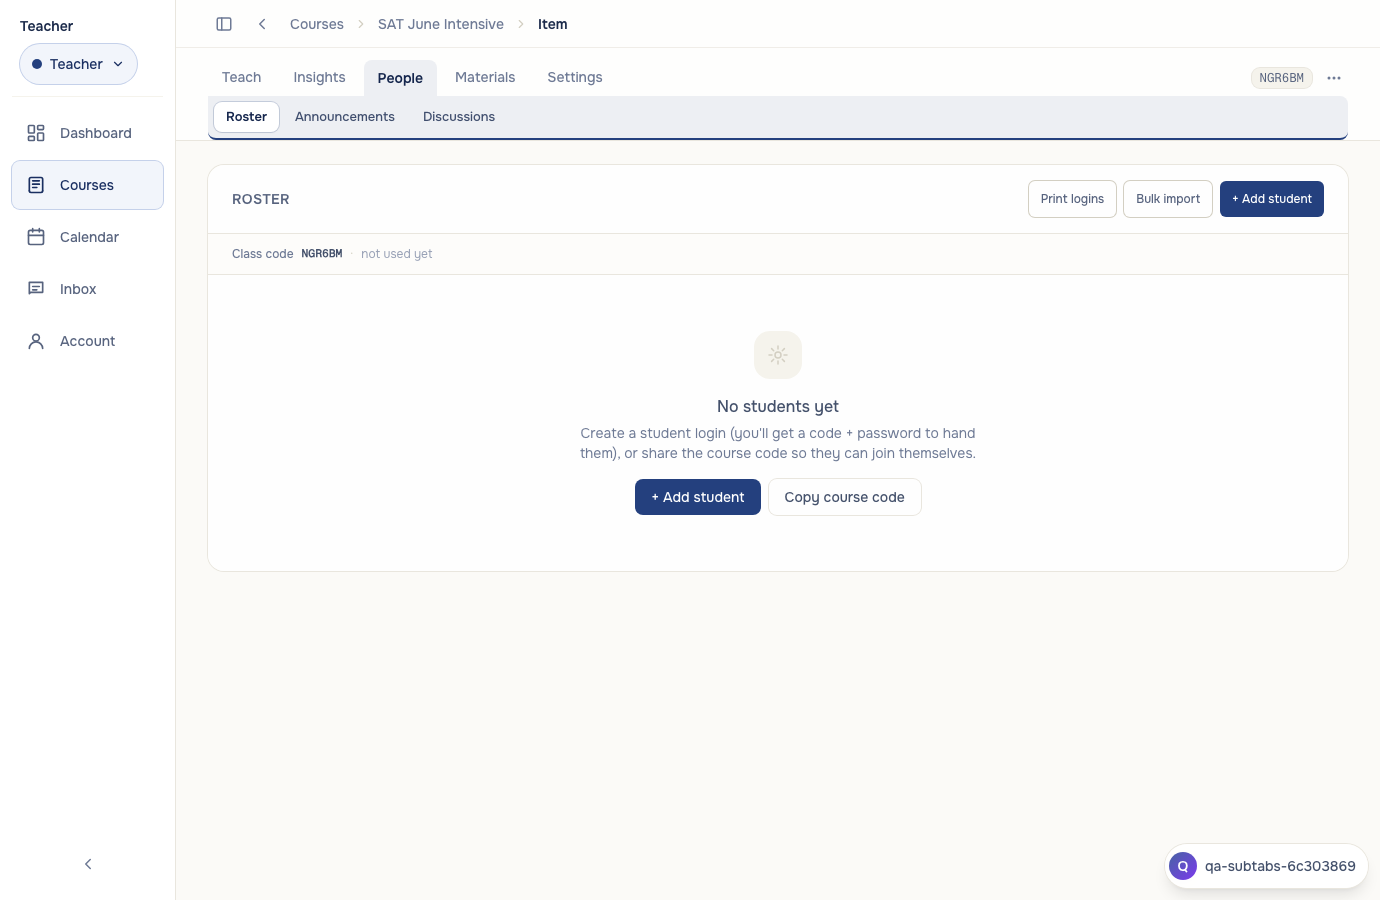
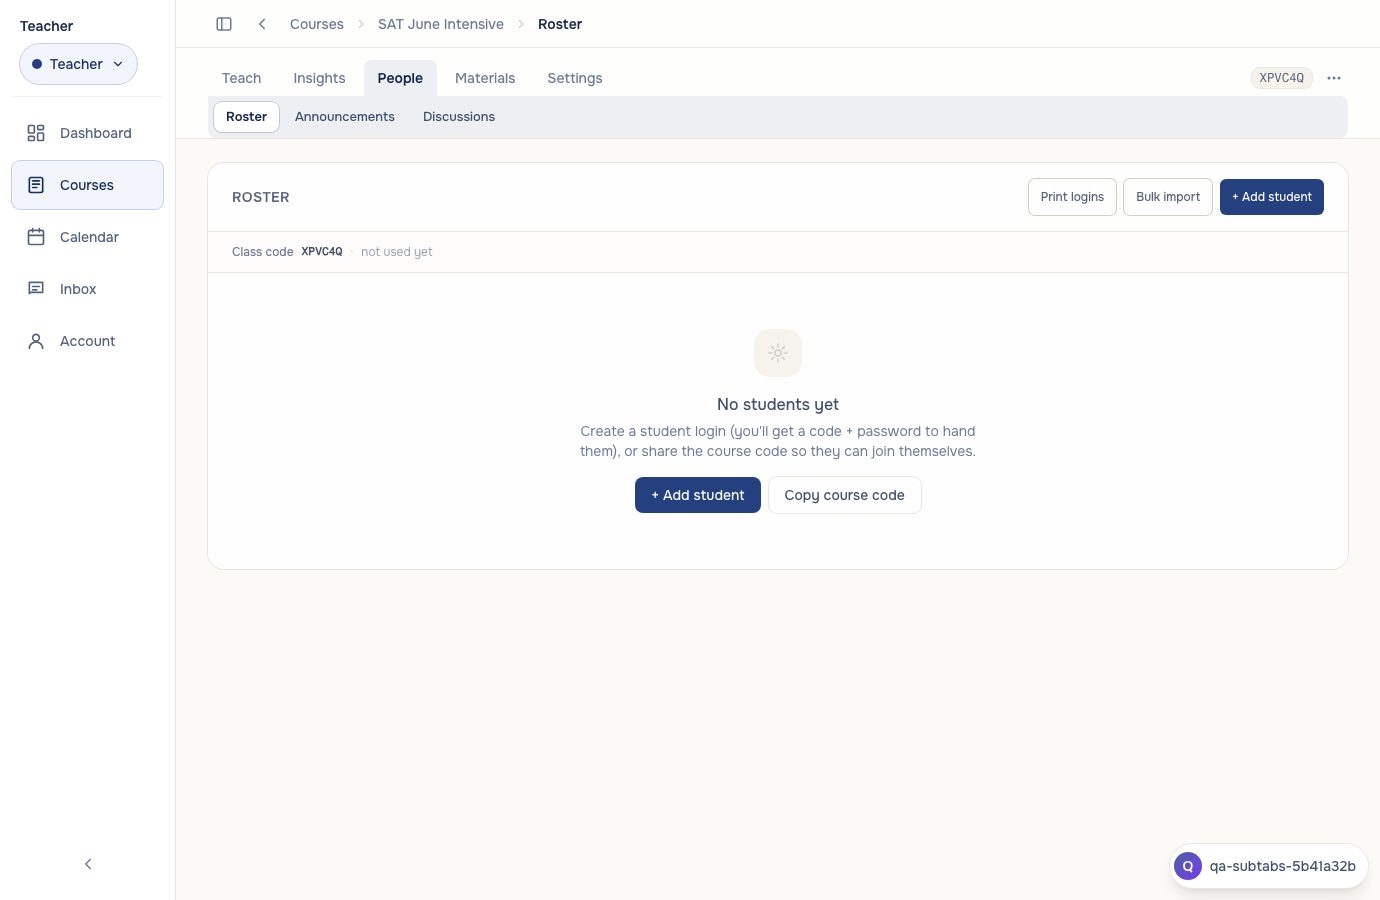
style: remove ALL accent-colored edge bars (owner hard rule)
'Bottom accents like this (or left accents too) are all very AI — make
it a rule.' Codified: no accent-colored bar on any container edge.
Active/selected state = fill tint + weight (+ raised pill on tinted
ground); neutral hairlines stay; full selection rings stay; drag
indicators exempt.

- CourseTabStrip: subtab band loses its border-b-2 accent baseline;
  active single tabs swap underline for the same rounded fill tint as
  the fused lip (one consistent active language, zero edge bars)
- Drawers/popovers lose border-l-4 indigo: CohortDrillDrawer,
  ShortcutsHelp, calendar day popover + mobile sheet
- Amber warning callouts lose border-l-4 (tint + ring carry them):
  Topic/Class/Assignment form modals, PortfolioSubmissionForm
- Announcements unread marker: left bar -> soft accent fill tint
- PracticeMode selected choice: left bar -> full accent ring

Verified: subtab harness 8/8 PASS post-change; build green.

diff --git a/viewer/src/teacher/CourseTabStrip.tsx b/viewer/src/teacher/CourseTabStrip.tsx
@@ -92,9 +92,11 @@ function isPathActive(pathname: string, tabPath: string): boolean {
 }
 
 /**
- * Row-1 tab styling. Active MULTI-item groups get the tinted "lip" treatment
- * (fuses with the subtab band below); active single-item tabs keep the classic
- * accent underline (no band follows them).
+ * Row-1 tab styling. NO accent edge bars anywhere (owner rule: edge accents —
+ * underlines, side stripes, band borders — read as AI-generated). Active state
+ * is carried by FILL TINT + WEIGHT alone: multi-item groups get the tinted
+ * "lip" (rounded top, fuses with the band below); single-item tabs get the
+ * same tint fully rounded.
  */
 function groupTabClass(opts: { active: boolean; fused: boolean }): string {
   const base =
@@ -103,9 +105,9 @@ function groupTabClass(opts: { active: boolean; fused: boolean }): string {
     return `${base} rounded-t-lg bg-accent-600/[0.08] dark:bg-accent-400/[0.14] text-accent-800 dark:text-accent-200 font-semibold`;
   }
   if (opts.active) {
-    return `${base} border-b-2 border-accent-600 text-accent-700 dark:text-accent-300 font-semibold`;
+    return `${base} rounded-lg bg-accent-600/[0.08] dark:bg-accent-400/[0.14] text-accent-800 dark:text-accent-200 font-semibold`;
   }
-  return `${base} border-b-2 border-transparent text-slate-500 dark:text-slate-400 hover:text-slate-800 dark:hover:text-slate-200 hover:border-slate-300 dark:hover:border-slate-700`;
+  return `${base} rounded-lg text-slate-500 dark:text-slate-400 hover:text-slate-800 dark:hover:text-slate-200 hover:bg-slate-600/[0.05] dark:hover:bg-slate-300/[0.08]`;
 }
 
 interface Props {
@@ -299,12 +301,13 @@ export function CourseTabStrip({
       </div>
 
       {/* ── Row 2: the active group's pages (subtabs) ─────────────────── */}
-      {/* Shares the active tab's tint so tab + band read as one control;
-          the band carries the accent baseline the fused tab gave up. */}
+      {/* Shares the active tab's tint so tab + band read as one control.
+          Deliberately NO accent border on any edge (owner rule) — the tint
+          plus the raised white active pill carry all the state. */}
       {bandItems && activeGroup && (
         <nav
           aria-label={`${activeGroup.label} pages`}
-          className="flex items-center gap-1 overflow-x-auto rounded-b-lg rounded-tr-lg bg-accent-600/[0.08] dark:bg-accent-400/[0.14] px-1.5 py-1.5 border-b-2 border-accent-600"
+          className="flex items-center gap-1 overflow-x-auto rounded-b-lg rounded-tr-lg bg-accent-600/[0.08] dark:bg-accent-400/[0.14] px-1.5 py-1.5"
         >
           {bandItems.map((tab) => (
             <NavLink

diff --git a/viewer/src/calendar/components.tsx b/viewer/src/calendar/components.tsx
@@ -322,7 +322,7 @@ export function DayPopover({
           role="dialog"
           aria-modal="true"
           aria-labelledby={labelId}
-          className="fixed inset-x-0 bottom-0 z-50 max-h-[80vh] rounded-t-2xl bg-white dark:bg-slate-900 ring-1 ring-slate-200 dark:ring-slate-800 border-l-4 border-l-indigo-500 shadow-2xl flex flex-col motion-safe:transition-transform"
+          className="fixed inset-x-0 bottom-0 z-50 max-h-[80vh] rounded-t-2xl bg-white dark:bg-slate-900 ring-1 ring-slate-200 dark:ring-slate-800 shadow-2xl flex flex-col motion-safe:transition-transform"
           onClick={(e) => e.stopPropagation()}
         >
           <DayPopoverContent
@@ -349,7 +349,7 @@ export function DayPopover({
         role="dialog"
         aria-modal="true"
         aria-labelledby={labelId}
-        className="fixed z-50 w-[280px] max-h-[60vh] rounded-xl bg-white dark:bg-slate-900 ring-1 ring-slate-200 dark:ring-slate-800 border-l-4 border-l-indigo-500 shadow-xl flex flex-col motion-safe:transition-transform"
+        className="fixed z-50 w-[280px] max-h-[60vh] rounded-xl bg-white dark:bg-slate-900 ring-1 ring-slate-200 dark:ring-slate-800 shadow-xl flex flex-col motion-safe:transition-transform"
         style={{ left: coords!.left, top: coords!.top }}
         onClick={(e) => e.stopPropagation()}
       >

diff --git a/viewer/src/teacher/AssignmentFormModal.tsx b/viewer/src/teacher/AssignmentFormModal.tsx
@@ -634,7 +634,7 @@ export function AssignmentFormModal({
         {isCreate && pendingRestore && (
           <div
             role="status"
-            className="rounded-md border-l-4 border-amber-500 bg-amber-50 dark:bg-amber-950/30 px-3 py-2 text-sm text-amber-900 dark:text-amber-100"
+            className="rounded-md bg-amber-50 dark:bg-amber-950/30 px-3 py-2 text-sm text-amber-900 dark:text-amber-100"
           >
             <div className="flex flex-wrap items-center justify-between gap-2">
               <span>
@@ -666,7 +666,7 @@ export function AssignmentFormModal({
         {confirmCancel && (
           <div
             role="status"
-            className="rounded-md border-l-4 border-amber-500 bg-amber-50 dark:bg-amber-950/30 px-3 py-2 text-sm text-amber-900 dark:text-amber-100"
+            className="rounded-md bg-amber-50 dark:bg-amber-950/30 px-3 py-2 text-sm text-amber-900 dark:text-amber-100"
           >
             <div className="flex flex-wrap items-center justify-between gap-2">
               <span>Discard draft and close?</span>

diff --git a/viewer/src/teacher/ClassFormModal.tsx b/viewer/src/teacher/ClassFormModal.tsx
@@ -490,7 +490,7 @@ export function ClassFormModal({
             {mode === "create" && pendingRestore && (
               <div
                 role="status"
-                className="rounded-md border-l-4 border-amber-500 bg-amber-50 dark:bg-amber-950/40 px-3 py-2 ring-1 ring-amber-200 dark:ring-amber-900"
+                className="rounded-md bg-amber-50 dark:bg-amber-950/40 px-3 py-2 ring-1 ring-amber-200 dark:ring-amber-900"
               >
                 <p className="text-sm text-amber-800 dark:text-amber-200">
                   Restore draft from{" "}
@@ -519,7 +519,7 @@ export function ClassFormModal({
             {showCancelConfirm && (
               <div
                 role="alert"
-                className="rounded-md border-l-4 border-amber-500 bg-amber-50 dark:bg-amber-950/40 px-3 py-2 ring-1 ring-amber-200 dark:ring-amber-900"
+                className="rounded-md bg-amber-50 dark:bg-amber-950/40 px-3 py-2 ring-1 ring-amber-200 dark:ring-amber-900"
               >
                 <p className="text-sm text-amber-800 dark:text-amber-200">
                   You have unsaved changes. Discard draft and close?

diff --git a/viewer/src/teacher/TopicFormModal.tsx b/viewer/src/teacher/TopicFormModal.tsx
@@ -451,7 +451,7 @@ export function TopicFormModal({
         {isCreate && pendingRestore && (
           <div
             role="status"
-            className="rounded-md border-l-4 border-amber-500 bg-amber-50 dark:bg-amber-950/30 px-3 py-2 text-sm text-amber-900 dark:text-amber-100"
+            className="rounded-md bg-amber-50 dark:bg-amber-950/30 px-3 py-2 text-sm text-amber-900 dark:text-amber-100"
           >
             <div className="flex flex-wrap items-center justify-between gap-2">
               <span>
@@ -483,7 +483,7 @@ export function TopicFormModal({
         {confirmCancel && (
           <div
             role="status"
-            className="rounded-md border-l-4 border-amber-500 bg-amber-50 dark:bg-amber-950/30 px-3 py-2 text-sm text-amber-900 dark:text-amber-100"
+            className="rounded-md bg-amber-50 dark:bg-amber-950/30 px-3 py-2 text-sm text-amber-900 dark:text-amber-100"
           >
             <div className="flex flex-wrap items-center justify-between gap-2">
               <span>Discard draft and close?</span>

diff --git a/viewer/src/components/PracticeMode.tsx b/viewer/src/components/PracticeMode.tsx
@@ -220,7 +220,7 @@ export function PracticeMode({
               // Before checking — selection highlight
               if (isUserPick) {
                 cardCls =
-                  "border-l-4 border-accent-500 bg-accent-50/50 shadow-card";
+                  "ring-2 ring-accent-500 bg-accent-50/50 shadow-card";
                 circleCls = "bg-accent-600 text-white";
               }
             }

diff --git a/viewer/src/dashboard/CohortDrillDrawer.tsx b/viewer/src/dashboard/CohortDrillDrawer.tsx
@@ -91,7 +91,7 @@ export function CohortDrillDrawer({
           absolute inset-0 sm:inset-y-0 sm:right-0 sm:left-auto
           w-full sm:w-[420px]
           bg-white dark:bg-slate-950
-          border-l-4 border-indigo-500
+          ring-1 ring-slate-200 dark:ring-slate-800
           shadow-2xl
           flex flex-col
           motion-safe:transition-transform

diff --git a/viewer/src/student/CourseAnnouncementsList.tsx b/viewer/src/student/CourseAnnouncementsList.tsx
@@ -190,7 +190,7 @@ export function CourseAnnouncementsList() {
                   "rounded-2xl bg-white/85 dark:bg-slate-900/70 ring-1 ring-slate-200 dark:ring-slate-800 p-4 shadow-sm",
                   "motion-safe:transition-colors",
                   isUnread
-                    ? "border-l-2 border-indigo-500 dark:border-indigo-400"
+                    ? "bg-accent-600/[0.05] dark:bg-accent-400/[0.10]"
                     : "",
                 ]
                   .filter(Boolean)

diff --git a/viewer/src/student/PortfolioSubmissionForm.tsx b/viewer/src/student/PortfolioSubmissionForm.tsx
@@ -855,7 +855,7 @@ export function PortfolioSubmissionForm({
         {recoverDraft && (
           <div
             role="status"
-            className="rounded-md border-l-4 border-amber-500 bg-amber-50 dark:bg-amber-950/30 px-3 py-2 text-sm text-amber-900 dark:text-amber-200 ring-1 ring-amber-200 dark:ring-amber-900/60"
+            className="rounded-md bg-amber-50 dark:bg-amber-950/30 px-3 py-2 text-sm text-amber-900 dark:text-amber-200 ring-1 ring-amber-200 dark:ring-amber-900/60"
           >
             <p>
               We found an unsaved draft from{" "}

diff --git a/viewer/src/components/ShortcutsHelp.tsx b/viewer/src/components/ShortcutsHelp.tsx
@@ -201,7 +201,6 @@ export function ShortcutsHelp({
         className={[
           "w-full max-w-[560px] max-h-[80vh]",
           "rounded-2xl bg-white dark:bg-slate-900",
-          "border-l-4 border-l-indigo-500 dark:border-l-indigo-400",
           "ring-1 ring-slate-200 dark:ring-slate-800",
           "shadow-2xl",
           "flex flex-col overflow-hidden",